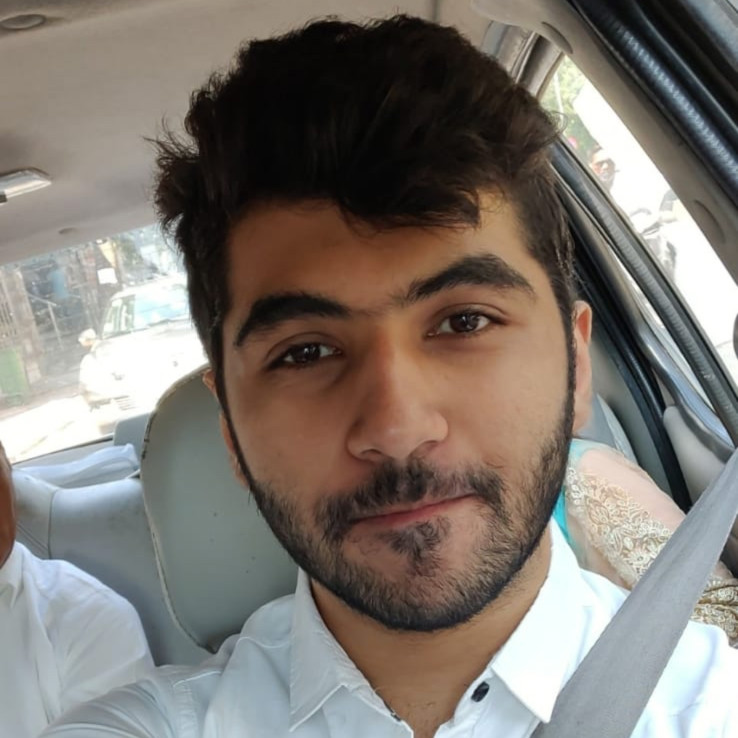
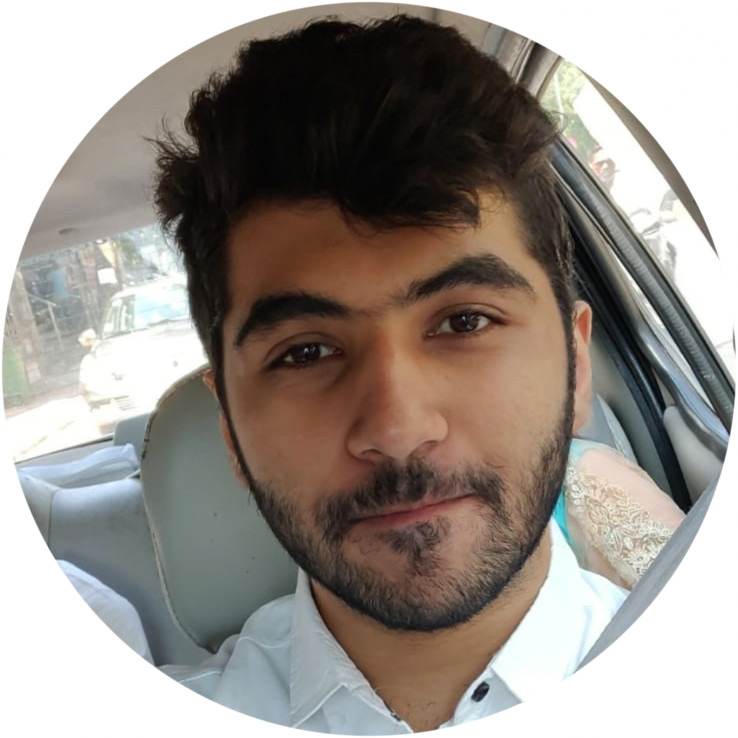
Changing picture shape

Changed region(s): [[0.0, 0.0, 1.0, 1.0]]

diff --git a/README.md b/README.md
@@ -8,14 +8,14 @@ Panorama is a cloud based photo storage and sharing application. It is a user fr
 
 Team Members:
 
-<img src="Photos/suraj.jpg" alt="drawing" width="130"/>  <img src="Photos/vishesh.jpg" alt="drawing" width="130"> <img src="Photos/ayyisha.jpg" alt="drawing" width="130" height= "130"/>
+<img src="Photos/suraj.jpg" alt="drawing" width="130" ALIGN ="left"/> Suraj Ramesh Punjabi (surajp28):
+    Suraj is currently completing his Masters in Indiana University in the field of Computer Science. He has 2.5 years of experience in the I.T industry, working with ITIVITI pvt ltd as a Software Engineer. Hailed from Mumbai University, with a Bachelor's degree in Computer Engineering, he intends to strengthen his core software development skills via this course
 
-Suraj Ramesh Punjabi (surajp28):
-    Suraj is currently completing his Masters in Indiana University in the field of Computer Science. He has 2.5 years of experience in the I.T industry, working with ITIVITI pvt ltd as a Software Engineer. Hailed from Mumbai University, with a Bachelor's degree in Computer Engineering, he intends to strengthen his core software development skills via this course.
 
-Vishesh Wasudeo Dembla (visheshdembla):
+ <img src="Photos/vishesh.jpg" alt="drawing" width="130" ALIGN ="left"/> Vishesh Wasudeo Dembla (visheshdembla):
     Vishesh is a Software Engineer with experience in Backend Development, Compiler Design and Machine Learning. After finishing his undergraduate degree in Information Technology, he worked at SAP for 3.5 years before joining IU. With this course, he intends to gain practical distributed systems skills as well as learn about good open source practices.
-
+ 
+ <img src="Photos/ayyisha.png" alt="drawing" width="130" height= "130" ALIGN ="left"/>
 Ayisha Tabbassum (ayishacs):
     Ayisha is an AWS certified Cloud and DevOps Engineer with experience in E-Commerce, Big Data and Cloud domain. After completing her bachelors degree in Electronics and Communication, she pursued her career with Cognizant Softvision, Ugam and UST global for 5 years before joining IUB for her graduate studies in Computer Science. Having worked in multi cloud environment such as AWS, GCP and Azure, she is willing to enhance her skills and gain in-depth knowledge of distributed computing concepts along with carving a niche for herself with open source community through this course
 
